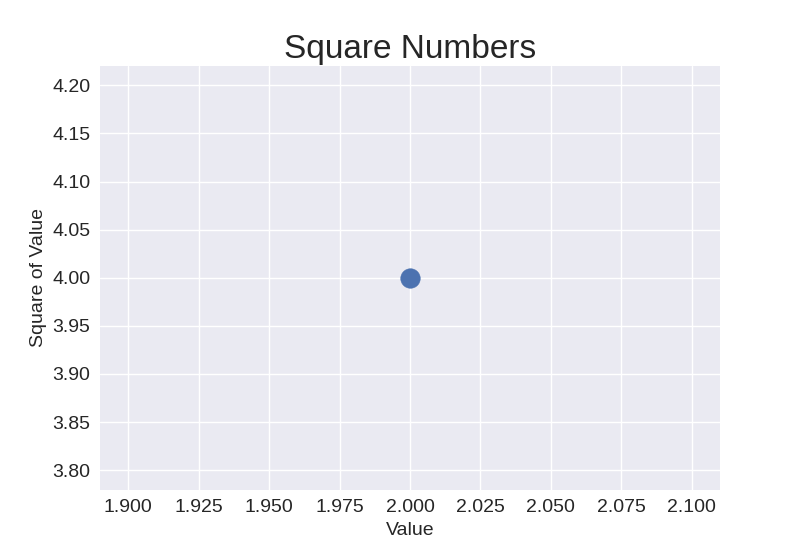
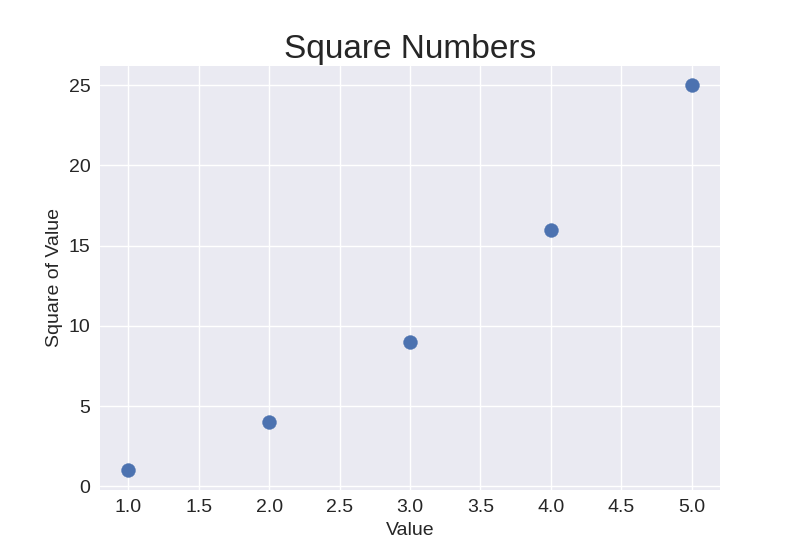
Plotting a series of points with scatter().

diff --git a/data_visualization/scatter_squares.py b/data_visualization/scatter_squares.py
@@ -1,9 +1,12 @@
 import matplotlib.pyplot as plt
 
 
+x_values = [1, 2, 3, 4, 5]
+y_values = [1, 4, 9, 16, 25]
+
 plt.style.use("seaborn")
 fig, ax = plt.subplots()
-ax.scatter(2, 4, s=200)
+ax.scatter(x_values, y_values, s=100)
 
 # Set chart title and label axes.
 ax.set_title("Square Numbers", fontsize=24)
